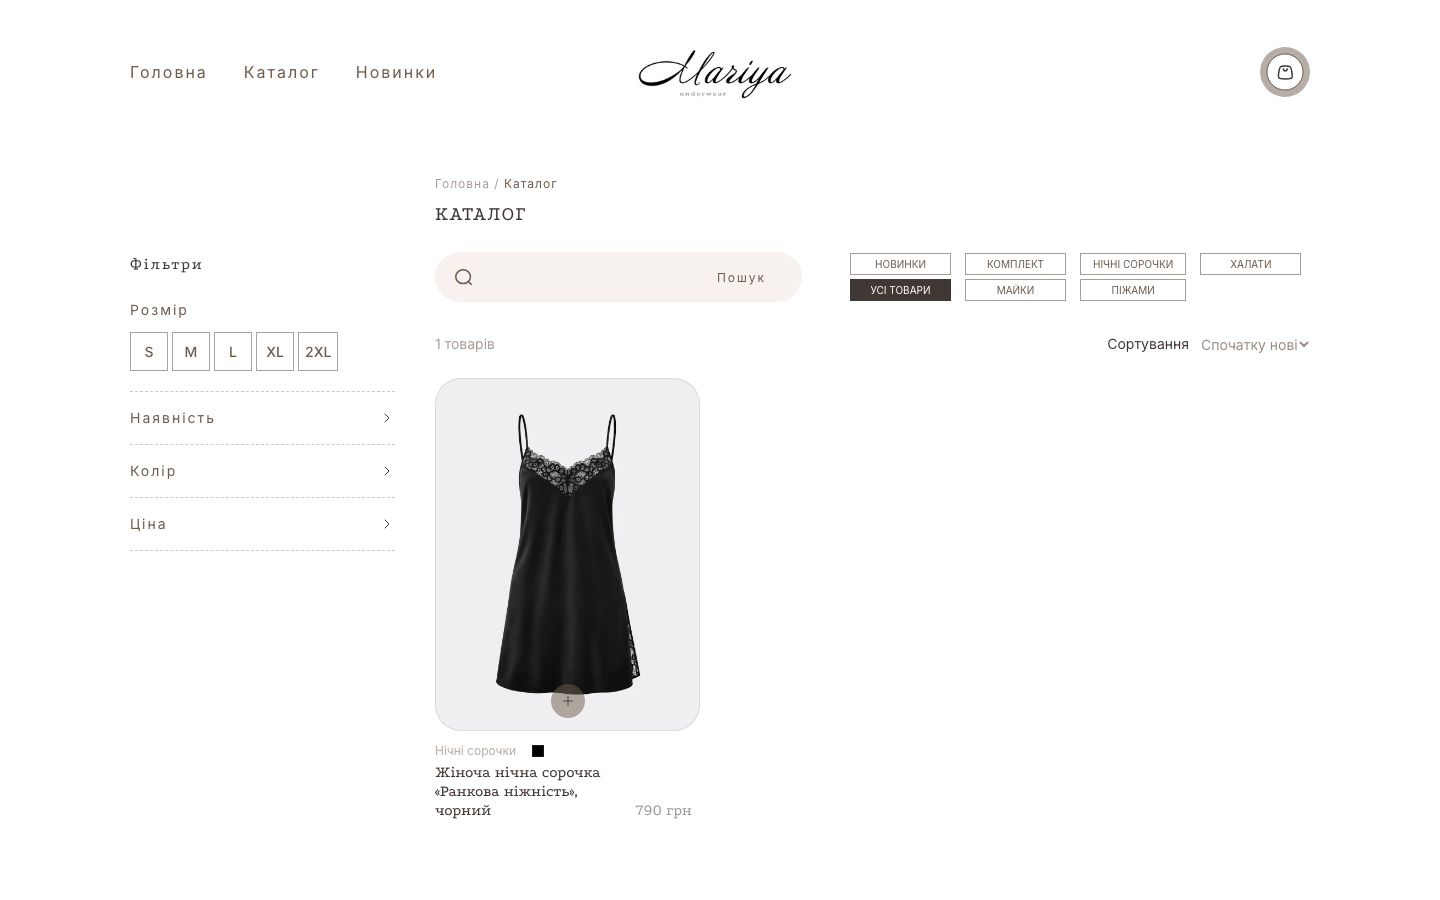
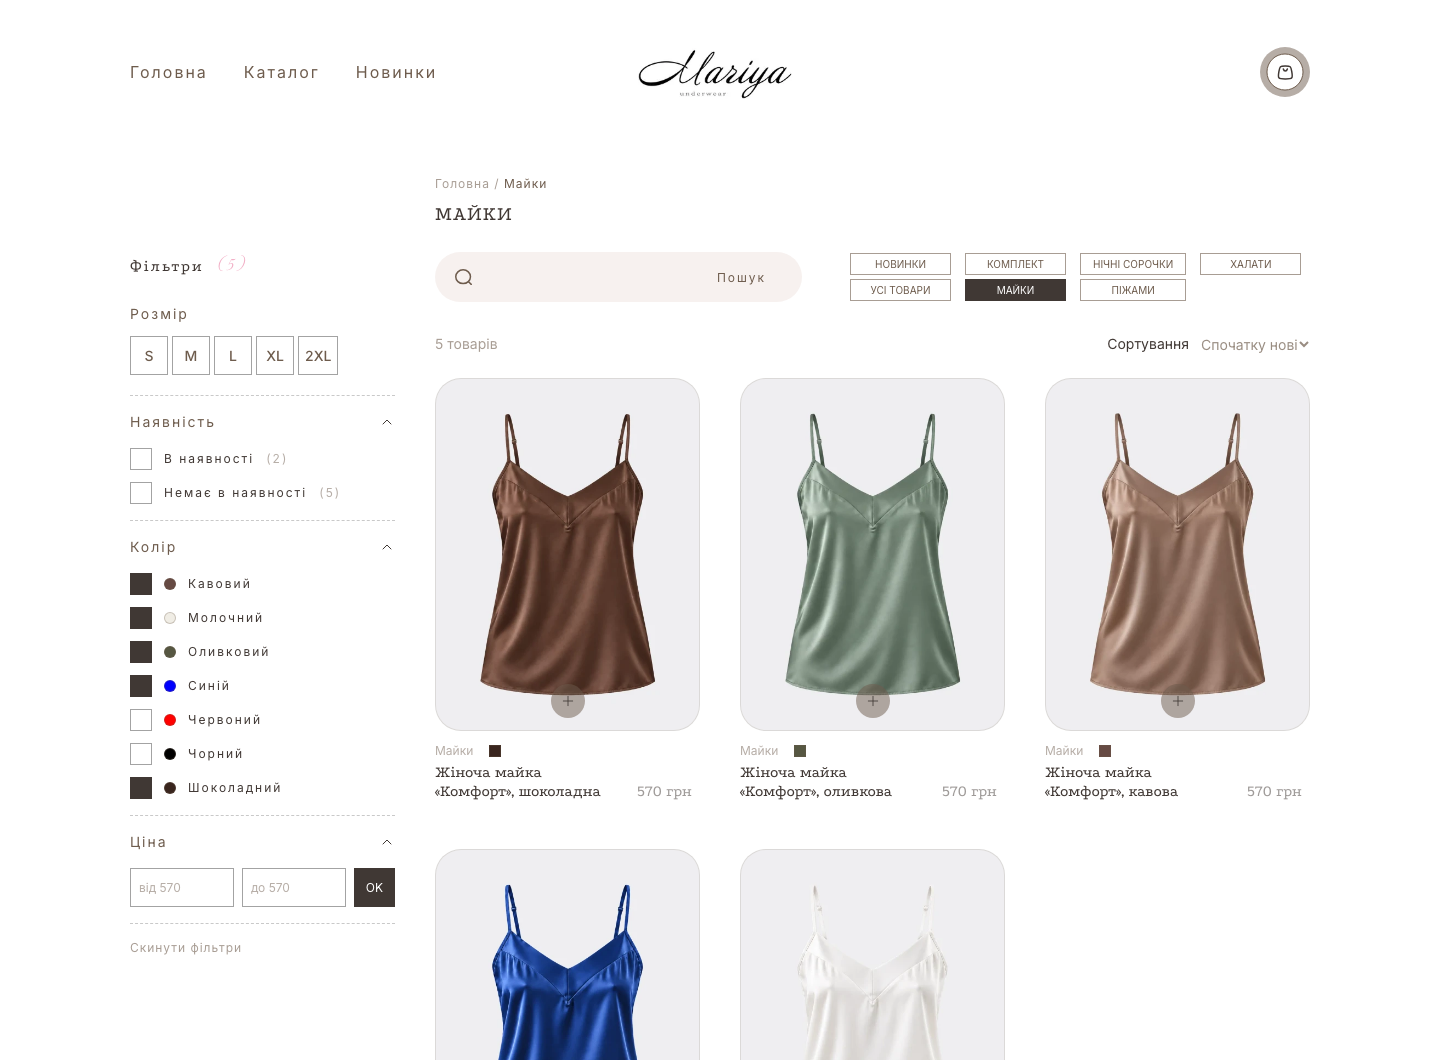
docs: скриншоти сайту та адмінки в README

diff --git a/README.md b/README.md
@@ -4,7 +4,7 @@ Online store for a Ukrainian lingerie and homewear brand, built from scratch to 
 
 **Live:** [mariyaunderwear.com](https://mariyaunderwear.com/)
 
-![Product page](docs/screenshots/product.png)
+![Home page](docs/screenshots/home.png)
 
 ## Stack
 
@@ -24,7 +24,24 @@ Online store for a Ukrainian lingerie and homewear brand, built from scratch to 
 - Price and per-size stock import from Torgsoft (Excel/CSV), matched by SKU and color
 - SEO: sitemap, robots.txt, JSON-LD product markup, canonical URLs
 
-![Catalog](docs/screenshots/catalog.png)
+## Screenshots
+
+| Catalog with filters | Product page |
+|---|---|
+| ![Catalog](docs/screenshots/catalog.png) | ![Product](docs/screenshots/product.png) |
+| **Size chart** | **Cart** |
+| ![Size chart](docs/screenshots/size-chart.png) | ![Cart](docs/screenshots/cart.png) |
+| **Checkout** | **Torgsoft import in the admin panel** |
+| ![Checkout](docs/screenshots/checkout.png) | ![Torgsoft import](docs/screenshots/admin-import.png) |
+
+![Mobile: home, catalog, product](docs/screenshots/mobile.png)
+
+<details>
+<summary>Products in the Payload admin</summary>
+
+![Admin products](docs/screenshots/admin-products.png)
+
+</details>
 
 ## Run locally
 
